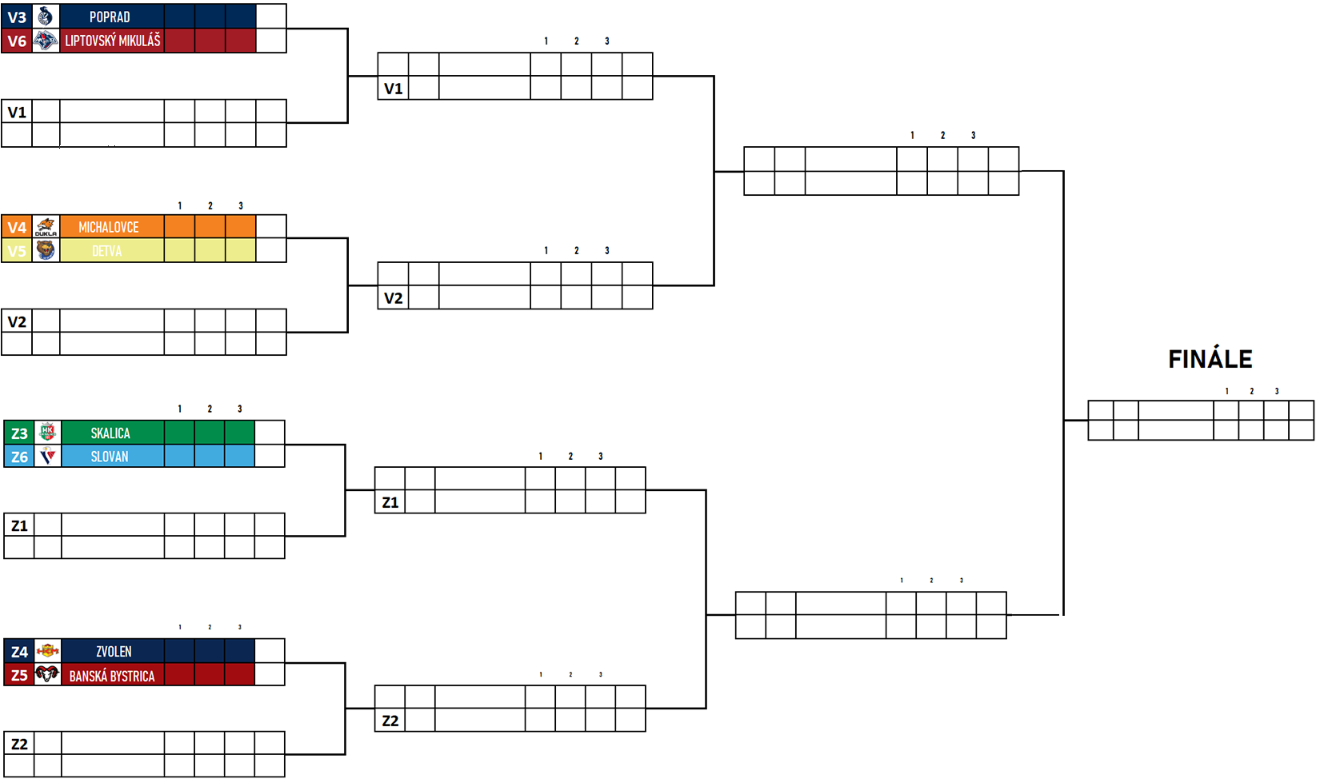
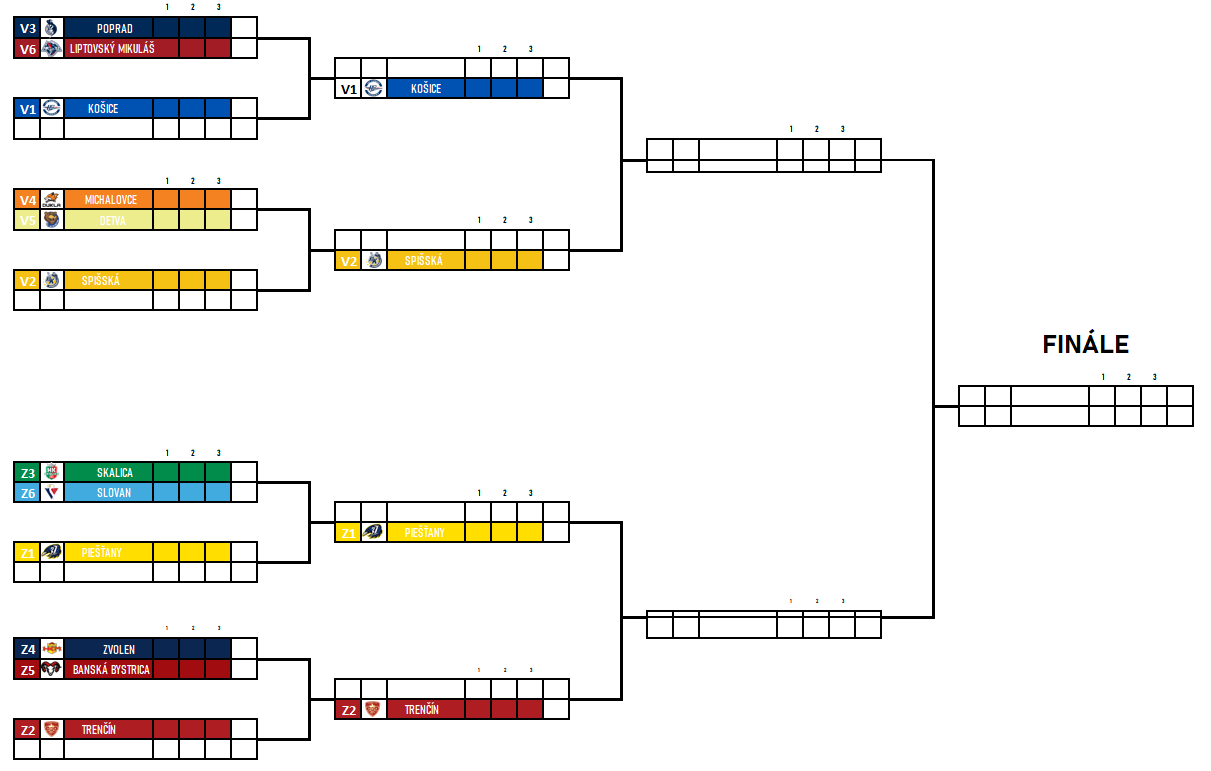
ss

diff --git a/play-off-rozpis.html b/play-off-rozpis.html
@@ -286,8 +286,8 @@
      
       <tr>
         <td class="datum">1.zápas 11.7.2020</td>
-        <td class="logo"></td>
-        <td class="club-name">V1</td>
+        <td class="logo"><img src="images/kosice.png" height="19"></td>
+        <td class="club-name"><a href="https://www.hockeyarena.net/sk/index.php?p=public_team_info_basic.php&team_id=90119" style="text-decoration-style: none; color: black;">Košice</a></td>
         <td class="match"><b>:</b></td>
         <td class="logo"></td>
         <td class="club-name"></td>
@@ -297,8 +297,8 @@
         <td class="logo"></td>
         <td class="club-name"></td>
         <td class="match"><b>:</b></td>
-        <td class="logo"></td>
-        <td class="club-name">V1</td>
+        <td class="logo"><img src="images/kosice.png" height="19"></td>
+        <td class="club-name"><a href="https://www.hockeyarena.net/sk/index.php?p=public_team_info_basic.php&team_id=90119" style="text-decoration-style: none; color: black;">Košice</a></td>
       </tr>
       <tr>
         <td class="datum">3.zápas 15.7.2020</td>
@@ -320,8 +320,8 @@
      
       <tr>
         <td class="datum">1.zápas 11.7.2020</td>
-        <td class="logo"></td>
-        <td class="club-name">V2</td>
+        <td class="logo"><img src="images/snv.png" height="19"></td>
+        <td class="club-name"><a href="https://www.hockeyarena.net/sk/index.php?p=public_team_info_basic.php&team_id=25632" style="text-decoration-style: none; color: black;">Spišská</a></td>
         <td class="match"><b>:</b></td>
         <td class="logo"></td>
         <td class="club-name"></td>
@@ -331,8 +331,8 @@
         <td class="logo"></td>
         <td class="club-name"></td>
         <td class="match"><b>:</b></td>
-        <td class="logo"></td>
-        <td class="club-name">V2</td>
+        <td class="logo"><img src="images/snv.png" height="19"></td>
+        <td class="club-name"><a href="https://www.hockeyarena.net/sk/index.php?p=public_team_info_basic.php&team_id=25632" style="text-decoration-style: none; color: black;">Spišská</a></td>
       </tr>
       <tr>
         <td class="datum">3.zápas 15.7.2020</td>
@@ -356,8 +356,8 @@
 
       <tr>
         <td class="datum">1.zápas 11.7.2020</td>
-        <td class="logo"></td>
-        <td class="club-name">Z1</td>
+        <td class="logo"><img src="images/piestany.png" height="19"></td>
+        <td class="club-name"><a href="https://www.hockeyarena.net/sk/index.php?p=public_team_info_basic.php&team_id=2589" style="text-decoration-style: none; color: black;">Piešťany</a></td>
         <td class="match"><b>:</b></td>
         <td class="logo"></td>
         <td class="club-name"> </td>
@@ -367,8 +367,8 @@
         <td class="logo"></td>
         <td class="club-name"></td>
         <td class="match"><b>:</b></td>
-        <td class="logo"></td>
-        <td class="club-name">Z1</td>
+        <td class="logo"><img src="images/piestany.png" height="19"></td>
+        <td class="club-name"><a href="https://www.hockeyarena.net/sk/index.php?p=public_team_info_basic.php&team_id=2589" style="text-decoration-style: none; color: black;">Piešťany</a></td>
       </tr>
       <tr>
         <td class="datum">3.zápas 15.7.2020</td>
@@ -389,8 +389,8 @@
 
        <tr>
         <td class="datum">1.zápas 11.7.2020</td>
-        <td class="logo"></td>
-        <td class="club-name">Z2</td>
+        <td class="logo"><img src="images/trencin.png" height="19"></td>
+        <td class="club-name"><a href="https://www.hockeyarena.net/sk/index.php?p=public_team_info_basic.php&team_id=29244" style="text-decoration-style: none; color: black;">Trenčín</a></td>
         <td class="match"><b>:</b></td>
         <td class="logo"></td>
         <td class="club-name"></td>
@@ -400,8 +400,8 @@
         <td class="logo"></td>
         <td class="club-name"></td>
         <td class="match"><b>:</b></td>
-        <td class="logo"></td>
-        <td class="club-name">Z2</td>
+        <td class="logo"><img src="images/trencin.png" height="19"></td>
+        <td class="club-name"><a href="https://www.hockeyarena.net/sk/index.php?p=public_team_info_basic.php&team_id=29244" style="text-decoration-style: none; color: black;">Trenčín</a></td>
       </tr>
       <tr>
         <td class="datum" style="border-bottom: 2px solid black;">3.zápas 15.7.2020</td>

diff --git a/playoff.html b/playoff.html
@@ -44,7 +44,7 @@
     
     <div class="play-off-bracket" align="center">
       <a href="playoff.html">Play-off Pavúk</a> <a href="play-off-rozpis.html">Play-off Rozpis</a>
-      <img class="play-off-bracket-picture" src="images/play-off.jpg" style="padding-top: 35px;">
+      <img class="play-off-bracket-picture" src="images/play-off.png" style="padding-top: 35px;">
     </div>
 
  
